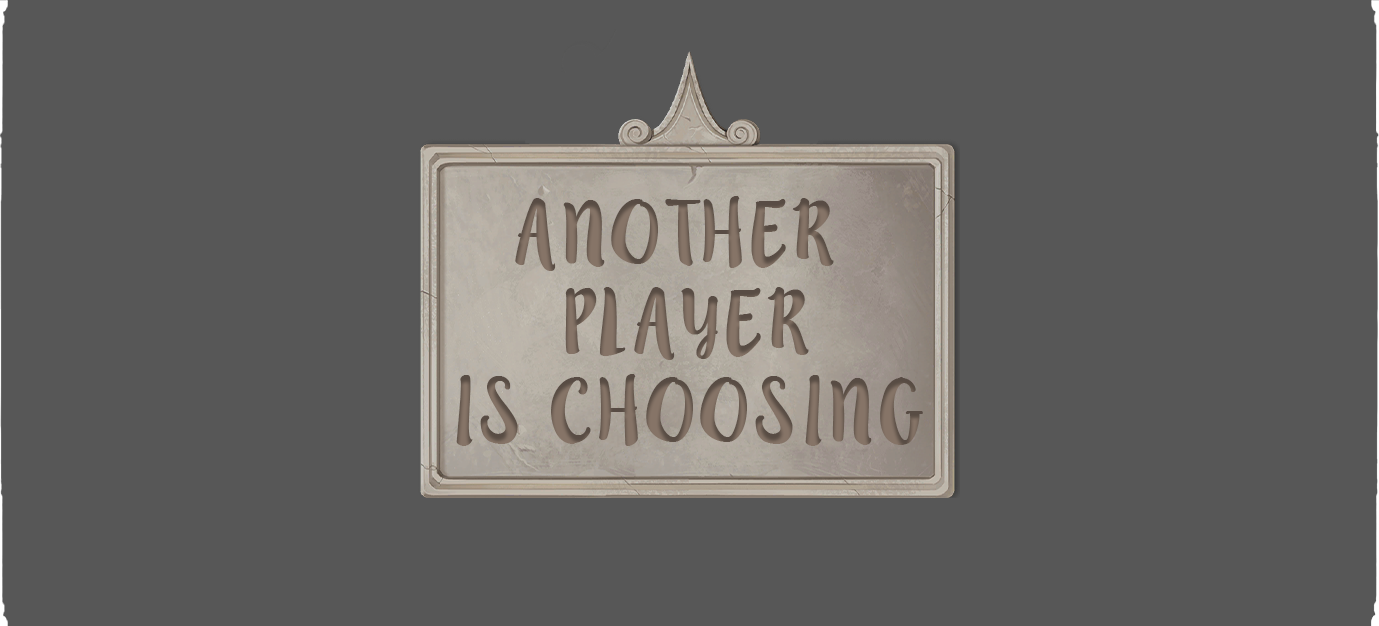
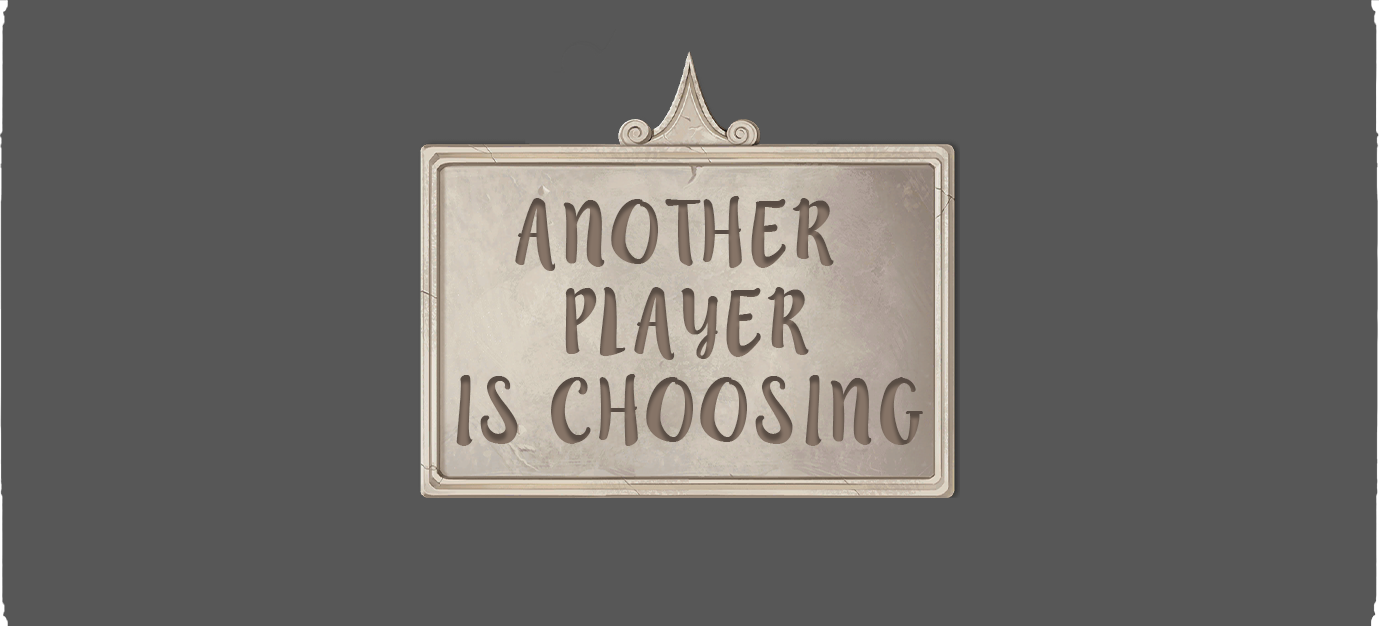
added WaitingColorPage

Changed region(s): [[0.2806, 0.1518, 0.686, 0.7891]]

diff --git a/src/main/resources/WaitingColor/WaitingColor.css b/src/main/resources/WaitingColor/WaitingColor.css
@@ -1,0 +1,3 @@
+#waitingColorPageContainer {
+    -fx-background-image: url("/Images/ColorChoice/waitBackground.png");
+}

diff --git a/src/main/java/it/polimi/ingsw/PSP19/Client/GUI/WaitingColorPage.java b/src/main/java/it/polimi/ingsw/PSP19/Client/GUI/WaitingColorPage.java
@@ -1,0 +1,105 @@
+package it.polimi.ingsw.PSP19.Client.GUI;
+
+import it.polimi.ingsw.PSP19.Server.Model.Colour;
+import it.polimi.ingsw.PSP19.Server.Model.Game;
+import it.polimi.ingsw.PSP19.Server.Model.Grid;
+import javafx.fxml.FXML;
+import javafx.fxml.Initializable;
+import javafx.scene.image.Image;
+import javafx.scene.image.ImageView;
+
+import java.io.IOException;
+import java.lang.reflect.Array;
+import java.net.URL;
+import java.util.ArrayList;
+import java.util.Arrays;
+import java.util.ResourceBundle;
+
+public class WaitingColorPage extends Page implements Initializable {
+
+    private URL layoutURL;
+
+    @FXML
+    private ImageView pawnTaken1;
+
+    @FXML
+    private ImageView pawnTaken2;
+
+    @FXML
+    private ImageView pawnTaken3;
+
+    @FXML
+    private ImageView pawnTaken4;
+
+    @FXML
+    private ImageView pawnTaken5;
+
+    @FXML
+    private ImageView chooseColorBtn1;
+
+    @FXML
+    private ImageView chooseColorBtn2;
+
+    @FXML
+    private ImageView chooseColorBtn3;
+
+    @FXML
+    private ImageView chooseColorBtn4;
+
+    @FXML
+    private ImageView chooseColorBtn5;
+
+    @FXML
+    private ImageView waiting;
+
+    public WaitingColorPage() {
+    }
+
+    public String getPageName() {
+        return "WaitingColor";
+    }
+
+    public void setGame(Game g) {
+        game = g;
+    }
+
+    @Override
+    public void initialize(URL url, ResourceBundle resourceBundle) {
+
+        game = new Game(0, null, false, null, new Grid(), new Grid(), null);
+
+        ImageView[] chooseButtonsArray = {chooseColorBtn1, chooseColorBtn2, chooseColorBtn3, chooseColorBtn4, chooseColorBtn5};
+        ImageView[] pawnTakenArray = {pawnTaken1, pawnTaken2, pawnTaken3, pawnTaken4, pawnTaken5};
+
+        for (int i = 0; i < 5; i++) {
+            Colour currentColor = getColorByIndex(i);
+
+            if (game.getAlreadyChosenColors().contains(currentColor)) {
+                pawnTakenArray[i].setImage(new Image("/Images/ColorChoice/already_taken.png"));
+            }
+
+            chooseButtonsArray[i].setDisable(true);
+
+        }
+
+
+    }
+
+    private Colour getColorByIndex(int i) {
+        switch (i) {
+            case 0:
+                return Colour.BLUE;
+            case 1:
+                return Colour.RED;
+            case 2:
+                return Colour.WHITE;
+            case 3:
+                return Colour.YELLOW;
+            case 4:
+                return Colour.PINK;
+            default:
+                return null;
+        }
+    }
+}
+

diff --git a/src/main/java/it/polimi/ingsw/PSP19/Client/GUI/DivinitiesChoicePage.java b/src/main/java/it/polimi/ingsw/PSP19/Client/GUI/DivinitiesChoicePage.java
@@ -93,7 +93,7 @@ public class DivinitiesChoicePage extends Page implements Initializable {
                     }
                 } else if ((clicked[finalI]) && (divChosed[0] <= players)) {
                     divButtonsArray[finalI].setImage(new Image("/Images/DivChoice/" + getDivinityStringByIndex(finalI) + ".png"));
-                    divinitiesChoice.remove(getDivinityStringByIndex(finalI));
+                    divinitiesChoice.remove(getDivinityStringByIndex(finalI).toUpperCase());
                     divChosed[0]--;
                     clicked[finalI] = false;
                     active[0] = false;

diff --git a/src/main/java/it/polimi/ingsw/PSP19/Client/GUI/SingleDivinityChoicePage.java b/src/main/java/it/polimi/ingsw/PSP19/Client/GUI/SingleDivinityChoicePage.java
@@ -109,7 +109,7 @@ public class SingleDivinityChoicePage extends Page implements Initializable {
                     if ((!clicked[finalI]) && (finalDiv[0] < 1)) {
 
                         divButtonsArray[finalI].setImage(new Image("/Images/DivChoice/" + divName + "_chosen.png"));
-                        divinityChoice[0] = possibleDivinities.get(finalI);
+                        divinityChoice[0] = possibleDivinities.get(finalI).toUpperCase();
                         finalDiv[0]++;
                         clicked[finalI] = true;
                         if (finalDiv[0] == 1) {
